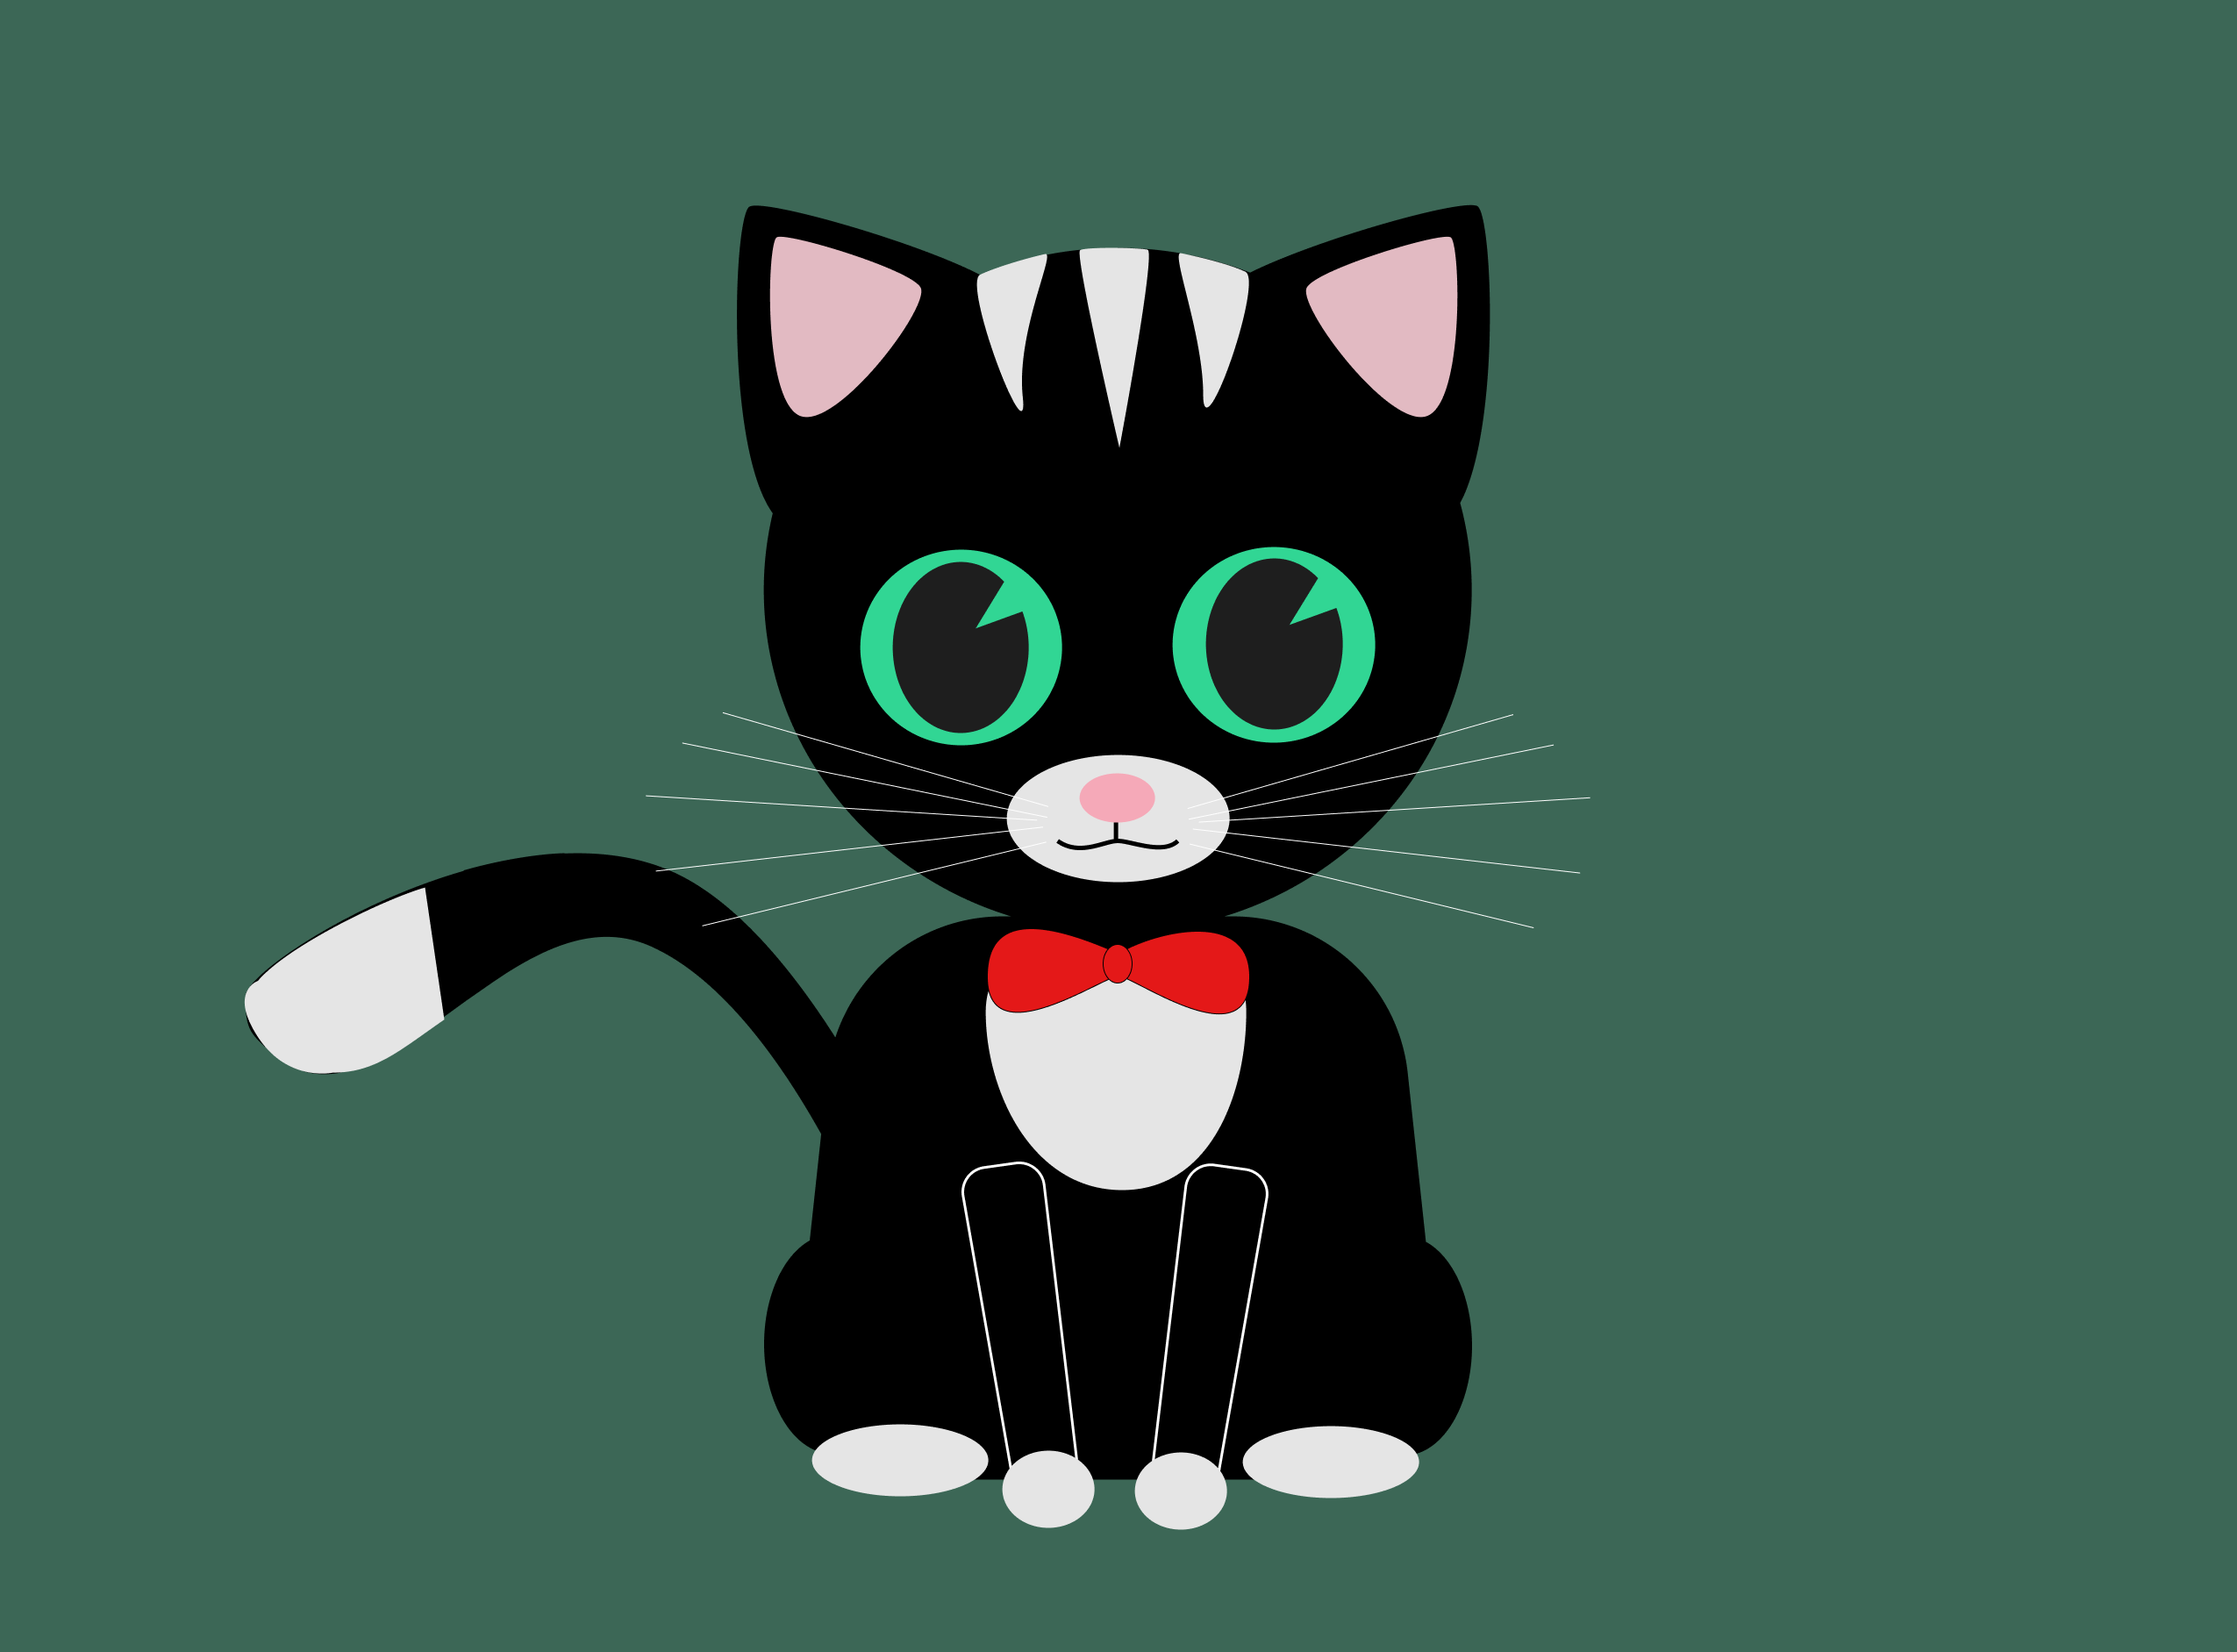
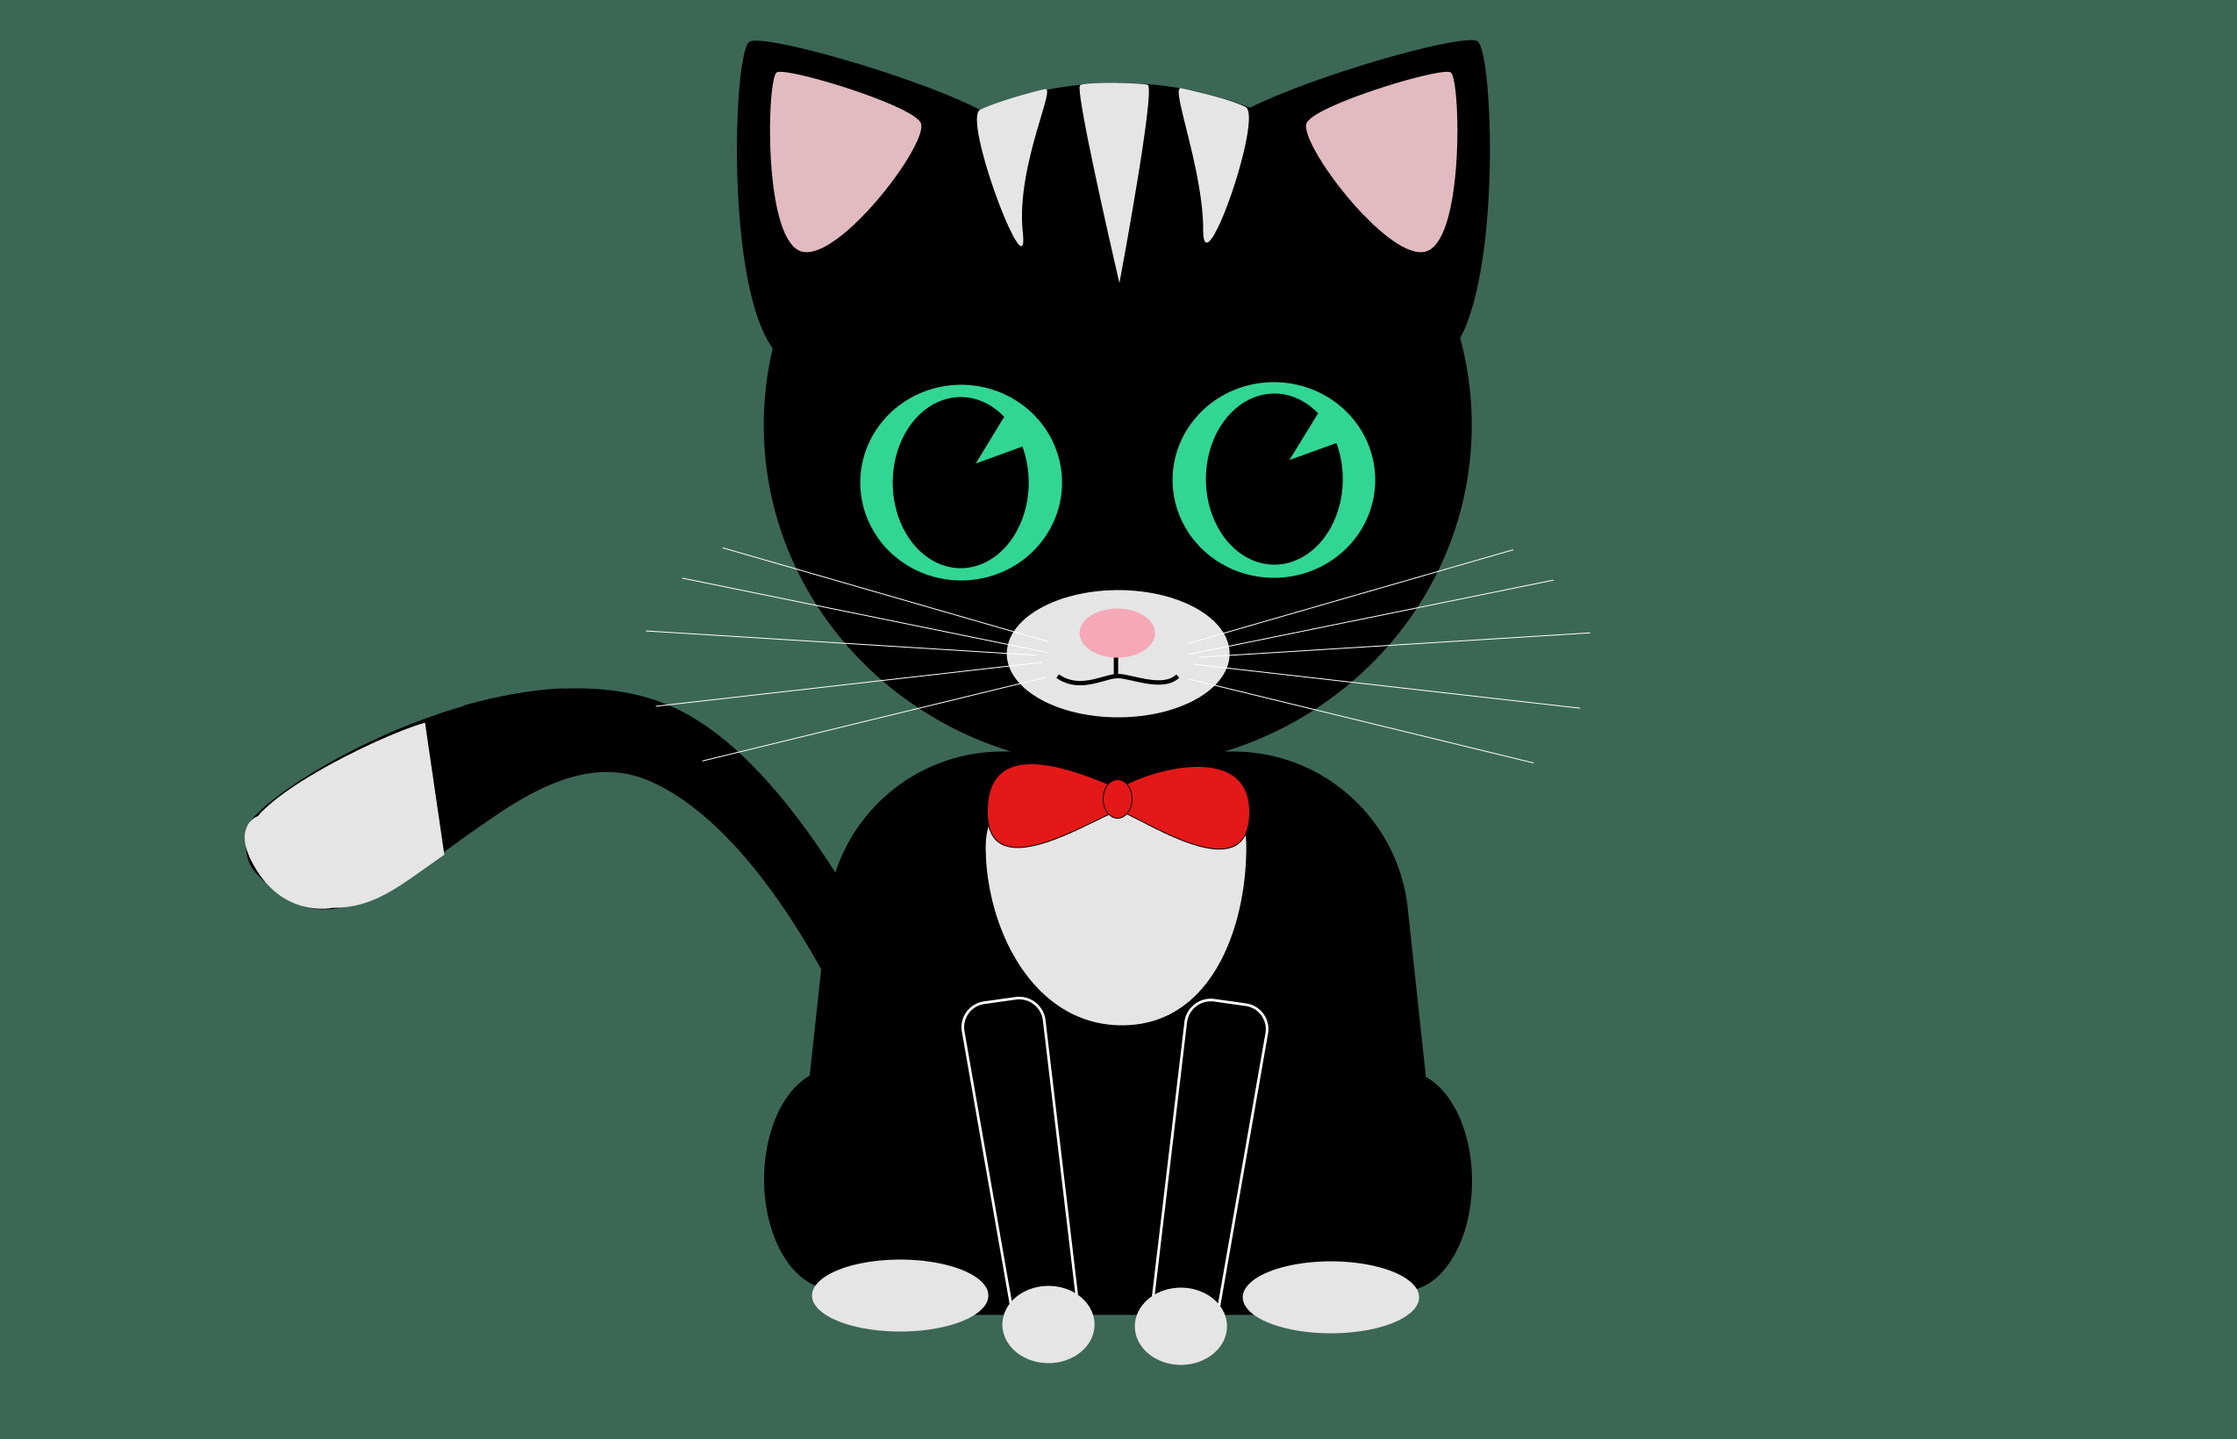
cat working

Changed region(s): [[0.0929, 0.0311, 0.6816, 0.7463], [0.3408, 0.8396, 0.6506, 0.964], [0.6196, 0.5909, 0.6506, 0.622]]

diff --git a/assets/css/styles.css b/assets/css/styles.css
@@ -9,14 +9,27 @@ body {
 	font-family: Arial;
 }
 
+
+
 .backgroundImage {
-	background-image: url(../img/CatWithoutBowtie.png);
-	width: 900px;
-	height: auto; 
-	margin: 64px audo; 
+	background-image: url(../img/catWithoutBowtie.png); 
+	width: 850px;
+	height: 314px; 
+	margin: 64px auto;
+	background-size: cover;
+	background-position: center;  
+	background-repeat: no-repeat;  
+	background-size: contain;
 }
 
 .backgroundImage:hover {
-	background-image: url(..img/clock.png);
+	background-image: url(../img/catWithBowtie.png);
 	cursor: crosshair; 
+	width: 850px;
+	height: 314px; 
+	margin: 64px auto;
+	background-size: cover;
+	background-position: center;  
+	background-repeat: no-repeat;  
+	background-size: contain;
 }

diff --git a/index.html b/index.html
@@ -6,11 +6,12 @@
 	<link rel="stylesheet" href="./assets/css/styles.css">
 </head>
 <body>
-	<div class= "backgroundImage"></div>
 	<h1>Get Dressed Up!</h1>
-	<img src="assets/img/catWithoutBowtie.png" alt="a cat without a bowtie" 
-		style="width: 900px; height: auto;">
+	<div class= "backgroundImage"></div>
+	<!--<img src="assets/img/catWithoutBowtie.png" alt="a cat without a bowtie" 
+		style="width: 900px; height: auto;"> --> 
 
+	<link ref="stylesheet" href=".assets/css/styles.css">
 	<script src="./assets/js/main.js"></script>
 </body>
 </html>
